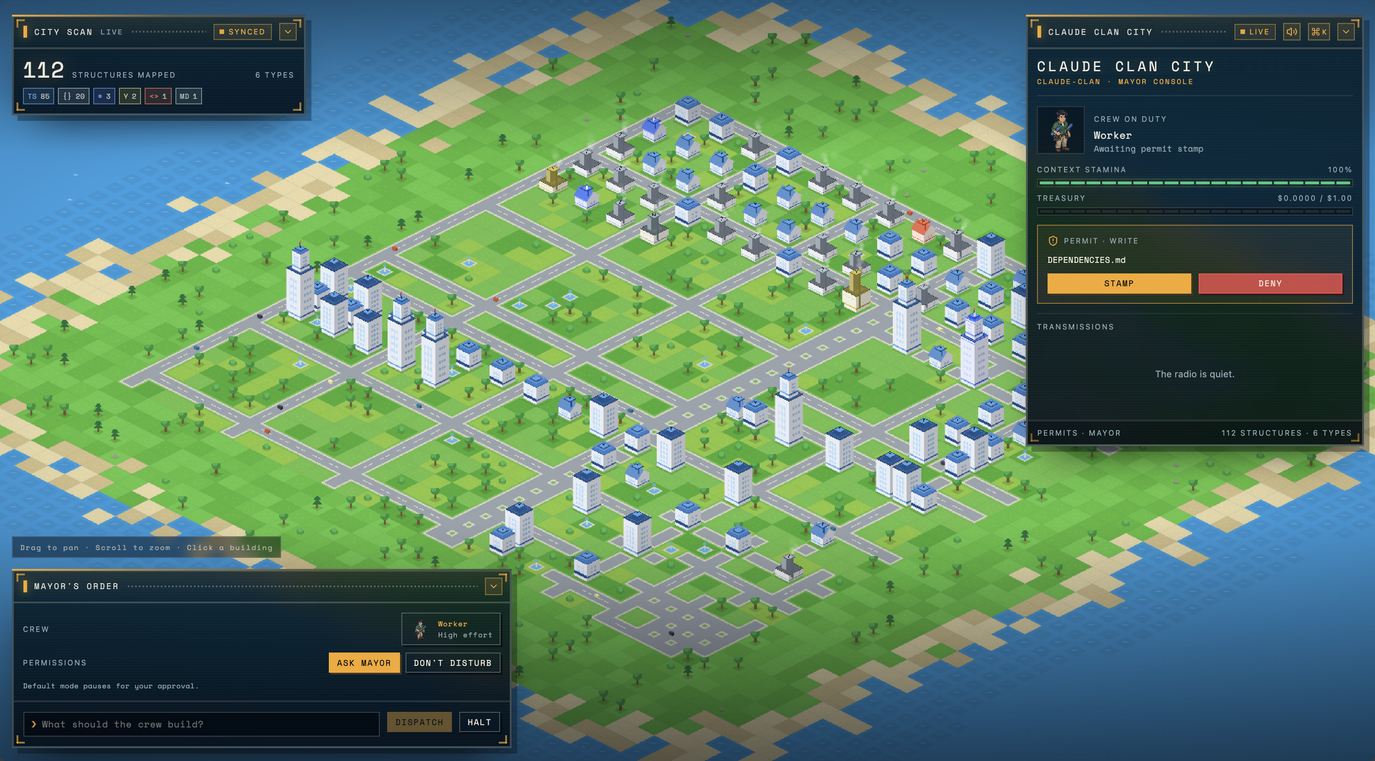
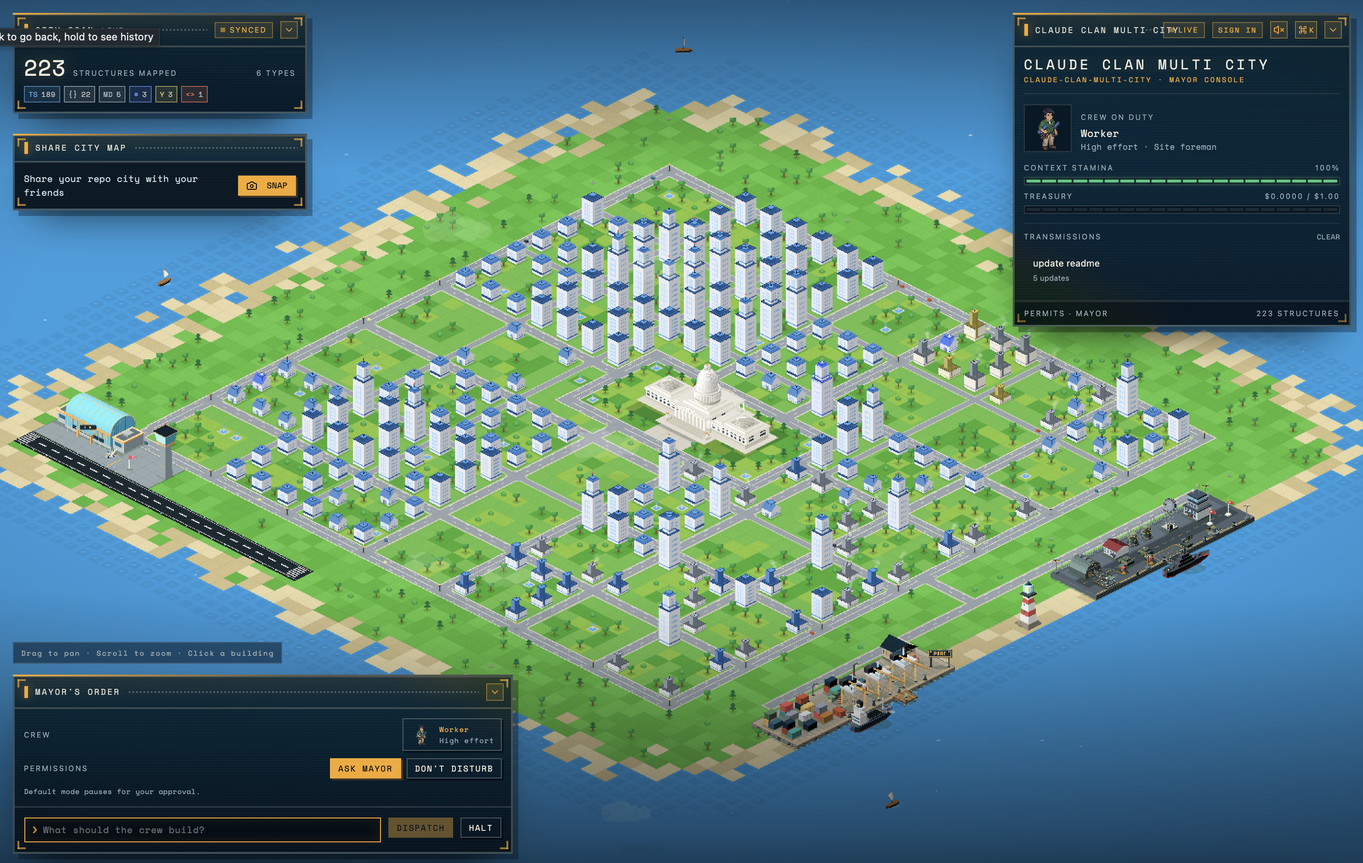
fix(airport, naval, harbour): implement reserved ground logic for airport and coastal installations to prevent tree growth over it and update city.png
- Added functions to define reserved ground areas for the airport and coastal installations, preventing tree and prop placement within these zones.
- Updated terrain classification to respect these reserved areas, ensuring that no props are seeded in the airport's and coastal installations' grounds.
- Enhanced unit tests to verify that no trees or props are generated within the reserved grounds of both the airport and coastal installations.

diff --git a/apps/web/src/game/layouts/airport.ts b/apps/web/src/game/layouts/airport.ts
@@ -67,8 +67,8 @@ export function createAirportLayout(width: number, height: number): AirportLayou
     MIN_AIRPORT_RUNWAY_LENGTH,
     MAX_AIRPORT_RUNWAY_LENGTH,
   );
-  const runwayStartX = -5;
-  const runwayY = safeHeight + 2.4;
+  const runwayStartX = -4.0;
+  const runwayY = safeHeight + 3.2;
   // Keep the apron junction available for arrivals while lengthening the
   // strip on both sides. Departures curve left directly to the threshold.
   const runwayEntryX = runwayStartX + 5.2;
@@ -80,25 +80,24 @@ export function createAirportLayout(width: number, height: number): AirportLayou
     runwayWidth: 1.44,
     departureThreshold: { x: runwayStartX + 0.42, y: runwayY },
     // The terminal is 5.2 tiles long and drawn from its centre, so its near
-    // end reaches x + AIRPORT_TERMINAL_HALF_U. Keeping that just short of 0
-    // is what stops the frontage from standing through a file's building on
-    // the city's west column.
-    terminal: { x: -2.82, y: safeHeight - 0.62 },
+    // end reaches x + AIRPORT_TERMINAL_HALF_U. Keeping it south of height - 1
+    // or west of x = 0 is what stops the frontage from standing through a building.
+    terminal: { x: -1.8, y: safeHeight - 0.12 },
     // Off the terminal's near end, on the extended tarmac. Screen-right means
     // +x, and y stays past the field's last row so the tower is outside the
     // buildable area even though its x is positive.
-    tower: { x: 2.3, y: safeHeight + 0.25 },
+    tower: { x: 4.2, y: safeHeight + 0.75 },
     // Runs from the tower back past the terminal's far end. The far edge is
     // pinned by the terminal, so the slab is lengthened at the +x end only.
-    apron: { x: -1.2, y: safeHeight + 0.46 },
-    gate: { x: -1.03, y: safeHeight + 0.78 },
+    apron: { x: 0.0, y: safeHeight + 0.96 },
+    gate: { x: 0.5, y: safeHeight + 1.28 },
     taxiHold: { x: runwayEntryX, y: runwayY - 0.86 },
     runwayEntry: { x: runwayEntryX, y: runwayY },
     taxiway: [
       { x: runwayEntryX, y: runwayY - 1.42, kind: "vertical" },
       { x: runwayEntryX, y: runwayY - 0.47, kind: "junction" },
     ],
-    accessRoadStart: { x: -2, y: Math.max(0, safeHeight - 2) },
+    accessRoadStart: { x: -0.5, y: Math.max(0, safeHeight - 2) },
   };
 }
 
@@ -150,6 +149,63 @@ export function runwayExitPoint(
     x: layout.runwayEnd.x + Math.max(0, tilesBeyondRunway),
     y: layout.runwayEnd.y,
   };
+}
+
+/**
+ * The airport's own reserved ground -- runway, apron and terminal are all
+ * sprites, not terrain (see CLAUDE.md on the capitol), so nothing otherwise
+ * stops the countryside's tree scatter from planting one on the runway
+ * threshold or beside the tower. Derived from the real layout rather than a
+ * hand-copied box, so a change to the airport's own geometry can't silently
+ * leave a new corner of it unreserved.
+ *
+ * Kept as separate rectangles, one per feature, rather than a single box
+ * around all of them: the terminal sits west of the field (negative x) while
+ * the apron, tower and runway sit south of it (y past the last row), so a
+ * single bounding box spans the corner between the two -- ground that belongs
+ * to neither -- and would needlessly clear a strip of the city's own edge.
+ */
+const RESERVE_MARGIN = 1;
+
+export interface Rect {
+  minX: number;
+  maxX: number;
+  minY: number;
+  maxY: number;
+}
+
+function padded(centreX: number, centreY: number, halfU: number, halfV: number): Rect {
+  return {
+    minX: centreX - halfU - RESERVE_MARGIN,
+    maxX: centreX + halfU + RESERVE_MARGIN,
+    minY: centreY - halfV - RESERVE_MARGIN,
+    maxY: centreY + halfV + RESERVE_MARGIN,
+  };
+}
+
+export function airportReservedRects(width: number, height: number): Rect[] {
+  const layout = createAirportLayout(width, height);
+  const runwayHalfU = (layout.runwayEnd.x - layout.runwayStart.x) / 2;
+  const runwayCentreX = (layout.runwayStart.x + layout.runwayEnd.x) / 2;
+
+  return [
+    padded(
+      layout.terminal.x,
+      layout.terminal.y,
+      AIRPORT_TERMINAL_HALF_U,
+      AIRPORT_TERMINAL_HALF_V,
+    ),
+    padded(layout.apron.x, layout.apron.y, AIRPORT_APRON_HALF_U, AIRPORT_APRON_HALF_V),
+    padded(runwayCentreX, layout.runwayStart.y, runwayHalfU, layout.runwayWidth / 2),
+    // The tower stands alone, off the apron's own footprint.
+    padded(layout.tower.x, layout.tower.y, 0.6, 0.6),
+  ];
+}
+
+export function isOnAirportGround(x: number, y: number, width: number, height: number): boolean {
+  return airportReservedRects(width, height).some(
+    (rect) => x >= rect.minX && x <= rect.maxX && y >= rect.minY && y <= rect.maxY,
+  );
 }
 
 export function airportLayoutKey(layout: AirportLayout): string {

diff --git a/apps/web/src/game/layouts/terrain.test.ts b/apps/web/src/game/layouts/terrain.test.ts
@@ -1,7 +1,8 @@
 import { BLOCK } from "@sudo-city/protocol";
 import type { WorldSnapshot } from "@sudo-city/protocol";
 import { describe, expect, it } from "vitest";
-import { coastLanes } from "./coast";
+import { isOnAirportGround } from "./airport";
+import { coastLanes, isOnCoastInstallation } from "./coast";
 import { createPortRoads } from "./portRoads";
 import {
   COAST_RING,
@@ -254,6 +255,59 @@ describe("the dock road", () => {
     }
     for (const building of world.buildings) {
       expect(grid.cellAt(building.plot.x, building.plot.y)?.kind).toBe("ground");
+    }
+  });
+});
+
+describe("landmark clearings", () => {
+  it("never seeds a tree, pine, bush or rock inside a coastal installation's own ground", () => {
+    const grid = buildTerrain(snapshot());
+    let checked = 0;
+
+    for (const cell of grid.cells) {
+      if (!isOnCoastInstallation(cell.x, cell.y, SIZE, SIZE)) {
+        continue;
+      }
+      checked += 1;
+      expect(cell.prop).toBeUndefined();
+    }
+    // The fixture's coastline has to actually pass through the harbour's and
+    // the naval base's own reserved ground, or this test would trivially pass
+    // by never finding a cell to check.
+    expect(checked).toBeGreaterThan(0);
+  });
+
+  it("never seeds a tree, pine, bush or rock inside the airport's own ground", () => {
+    const grid = buildTerrain(snapshot());
+    let checked = 0;
+
+    for (const cell of grid.cells) {
+      // Restricted to genuinely outside-city cells: the airport's reserved
+      // rectangles are only ever consulted for the countryside ring (see
+      // classify() in terrain.ts), and a corner of one can geometrically
+      // touch the field's own edge column without that column ever being
+      // reached through this path -- it is governed by classifyCity instead.
+      const outsideCity = cell.x < 0 || cell.x >= SIZE || cell.y < 0 || cell.y >= SIZE;
+      if (!outsideCity || !isOnAirportGround(cell.x, cell.y, SIZE, SIZE)) {
+        continue;
+      }
+      checked += 1;
+      expect(cell.prop).toBeUndefined();
+    }
+    expect(checked).toBeGreaterThan(0);
+  });
+
+  it("leaves the ground kind and colour of a reserved tile untouched -- only its prop is suppressed", () => {
+    const grid = buildTerrain(snapshot());
+
+    for (const cell of grid.cells) {
+      if (!isOnCoastInstallation(cell.x, cell.y, SIZE, SIZE)) {
+        continue;
+      }
+      // Still ordinary countryside grass (or sand/water, further out) --
+      // the clearing is invisible, not a bare patch standing out from its
+      // surroundings.
+      expect(["grass", "sand", "water", "road"]).toContain(cell.kind);
     }
   });
 });

diff --git a/apps/web/src/game/layouts/terrain.ts b/apps/web/src/game/layouts/terrain.ts
@@ -22,7 +22,9 @@ import {
   type DistrictRect,
   type WorldSnapshot,
 } from "@sudo-city/protocol";
+import { isOnAirportGround } from "./airport";
 import { capitolCell } from "./capitol";
+import { isOnCoastInstallation } from "./coast";
 import { createPortRoads, type PortRoadPlan } from "./portRoads";
 import { COAST_RING, COUNTRYSIDE_RING, OUTER_RING } from "./rings";
 import { chance, hashCoords, hashText, mod, pickIndex, unitFloat } from "../math/hash";
@@ -409,7 +411,13 @@ function classify(
   const distance = shoreDistance(x, y, width, height);
 
   if (distance <= COUNTRYSIDE_RING) {
-    return grassCell(x, y, 0x7ee);
+    // The harbour, the naval base and the airport are all sprites, not
+    // terrain (see CLAUDE.md on the capitol), so nothing else stops the
+    // countryside's tree scatter from planting one on the runway or inside
+    // the naval base's own fence line.
+    const noProp =
+      isOnCoastInstallation(x, y, width, height) || isOnAirportGround(x, y, width, height);
+    return grassCell(x, y, 0x7ee, noProp);
   }
   if (distance <= COUNTRYSIDE_RING + COAST_RING) {
     return {
@@ -534,7 +542,14 @@ function parkProp(seed: number): PropKind | undefined {
   return undefined;
 }
 
-function grassCell(x: number, y: number, salt: number): TerrainCell {
+/**
+ * `noProp` keeps a tile's ground kind and colour untouched but never seeds a
+ * tree, pine, bush or rock on it -- used for the countryside tiles a coastal
+ * installation or the airport occupies, which are sprites drawn over the
+ * terrain rather than terrain cells themselves (see CLAUDE.md on the
+ * capitol), so nothing else would stop a prop growing right through one.
+ */
+function grassCell(x: number, y: number, salt: number, noProp = false): TerrainCell {
   const seed = hashCoords(x, y, salt);
   return {
     x,
@@ -542,7 +557,7 @@ function grassCell(x: number, y: number, salt: number): TerrainCell {
     kind: "grass",
     variant: pickIndex(hashCoords(x, y, salt ^ 0x11), 3),
     roadMask: 0,
-    prop: countrysideProp(seed),
+    prop: noProp ? undefined : countrysideProp(seed),
   };
 }
 

diff --git a/apps/web/src/game/layouts/coast.ts b/apps/web/src/game/layouts/coast.ts
@@ -91,3 +91,31 @@ export function coastLighthouse(
     y: coastLanes(height).lighthouse,
   };
 }
+
+/**
+ * How far beyond the bare apron slab an installation's own fixtures reach:
+ * the harbour's warehouse and sign, the naval base's perimeter fence and its
+ * command precinct, none of which are drawn as terrain (see CLAUDE.md on the
+ * capitol) and so are otherwise invisible to the countryside's own tree
+ * scatter -- a pine can and did grow inside the naval base's own fence line.
+ * Generous rather than exact: this only ever suppresses a prop, never a tile
+ * kind, so erring wide costs nothing but a slightly larger clearing.
+ */
+const INSTALLATION_MARGIN_U = 1.6;
+const INSTALLATION_MARGIN_V = 1.6;
+
+/** True for any tile inside either coastal installation's own reserved ground. */
+export function isOnCoastInstallation(
+  x: number,
+  y: number,
+  width: number,
+  height: number,
+): boolean {
+  const quayX = coastQuayX(width);
+  const lanes = coastLanes(height);
+  const halfU = COAST_QUAY_HALF_U + INSTALLATION_MARGIN_U;
+  const halfV = COAST_QUAY_HALF_V + INSTALLATION_MARGIN_V;
+  const withinApron = (laneY: number): boolean =>
+    x >= quayX - halfU && x <= quayX + halfU && y >= laneY - halfV && y <= laneY + halfV;
+  return withinApron(lanes.navy) || withinApron(lanes.harbour);
+}

diff --git a/apps/web/src/game/layouts/airport.test.ts b/apps/web/src/game/layouts/airport.test.ts
@@ -36,7 +36,10 @@ describe("createAirportLayout", () => {
     // and the frontage stands through whatever file owns that plot.
     for (const [width, height] of [[8, 8], [20, 14], [64, 40]] as const) {
       const layout = createAirportLayout(width, height);
-      expect(layout.terminal.x + AIRPORT_TERMINAL_HALF_U).toBeLessThan(0);
+      expect(
+        layout.terminal.x + AIRPORT_TERMINAL_HALF_U < 0 ||
+          layout.terminal.y + AIRPORT_TERMINAL_HALF_V > height - 1,
+      ).toBe(true);
       expect(layout.terminal.y + AIRPORT_TERMINAL_HALF_V).toBeLessThan(
         layout.runwayStart.y,
       );
